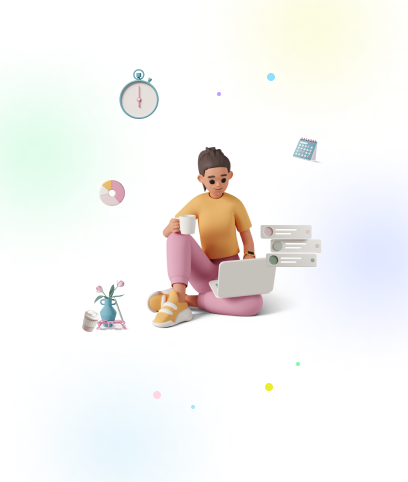
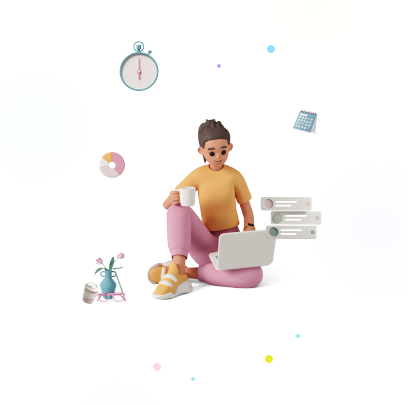
finish login page ui

diff --git a/lib/features/auth/presentation/pages/login_page.dart b/lib/features/auth/presentation/pages/login_page.dart
@@ -1,6 +1,9 @@
+import 'package:flutter/cupertino.dart';
 import 'package:flutter/material.dart';
 import 'package:flutter_bloc/flutter_bloc.dart';
 import 'package:flutter_screenutil/flutter_screenutil.dart';
+import 'package:phone_form_field/phone_form_field.dart';
+import '../../../../config/theme/app_theme.dart';
 import '../cubit/auth_cubit.dart';
 import '../widgets/custom_text_field.dart';
 import 'package:go_router/go_router.dart';
@@ -16,73 +19,123 @@ class LoginPage extends StatelessWidget {
   Widget build(BuildContext context) {
     return Scaffold(
       body: SafeArea(
-        child: Column(
-          children: [
-            Image.asset(
-              "assets/images/art2.png",
-              width: 1.sw,
-              height: 485.h,
-              fit: BoxFit.fitWidth,
-            ),
-            5.verticalSpace,
-            const Padding(
-              padding: EdgeInsets.symmetric(horizontal: 24),
-              child: Column(
+        child: SingleChildScrollView(
+          child: Column(
+            children: [
+              Image.asset(
+                "assets/images/art.png",
+                width: 1.sw,
+                height: 455.h,
+                fit: BoxFit.fitWidth,
+              ),
+              5.verticalSpace,
+               Padding(
+                padding: const EdgeInsets.symmetric(horizontal: 24),
+                child: Column(
 
-                children: [
-                  Align(
-                    alignment: Alignment.centerLeft,
-                    child: Text(
-                      "Login",
-                      style: TextStyle(fontSize: 24, fontWeight: FontWeight.w700),
+                  children: [
+                    const Align(
+                      alignment: Alignment.centerLeft,
+                      child: Text(
+                        "Login",
+                        style: TextStyle(fontSize: 24, fontWeight: FontWeight.w700),
 
+                      ),
                     ),
-                  ),
+                    20.verticalSpace,
+                    PhoneFormField(
+                      initialValue: PhoneNumber.parse('+20'),
+                      decoration: const InputDecoration(
+                        hintText: '123 456-7890',
+                      ),
+                      // or use the controller
+                      // validator: PhoneValidator.compose(
+                      //     [PhoneValidator.required(), PhoneValidator.validMobile()]),
+                      countrySelectorNavigator: const CountrySelectorNavigator.page(),
+                      onChanged: (phoneNumber) => print('changed into $phoneNumber'),
+                      enabled: true,
+                      isCountrySelectionEnabled: true,
+                      isCountryButtonPersistent: true,
+
+                      countryButtonStyle: const CountryButtonStyle(
+                          showDialCode: true,
+                          showIsoCode: false,
+                          showFlag: true,
+                          flagSize: 24
+                      ),),
+                    20.verticalSpace,
+                    TextFormField(
+                      obscureText: true,
+                      decoration:  InputDecoration(
+                        hintText: 'Password...',
+                        suffixIcon: IconButton(onPressed: (){}, icon:  const Icon(Icons.visibility_outlined,size: 24,color: Colors.grey,)),
+                       //suffix: IconButton(onPressed: (){}, icon:  Icon(Icons.visibility_outlined,size: 24,color: Colors.grey,)),
+                      ),
+                    )
+                  ],
+                ),
+              ),
+              20.verticalSpace,
+              ElevatedButton(
+                onPressed: () {
+                  context.push('/login');
+                },
+                style: ButtonStyle(
+                    backgroundColor: WidgetStateProperty.all(AppTheme.primaryColor),
+                    shape: WidgetStateProperty.all(RoundedRectangleBorder(borderRadius: BorderRadius.circular(12))),
+                    fixedSize: WidgetStateProperty.all(Size(331.w, 49.h))
+                ),
+                child: const Text(
+                  'Sign In',
+                  style: TextStyle(
+                      fontSize: 16,
+                      fontWeight: FontWeight.w700,
+                      color: Colors.white),
+                ),),
+              20.verticalSpace,
+               Row(
+                mainAxisAlignment: MainAxisAlignment.center,
+                children: [
+                  const Text("Didn’t have any account? " ,style: TextStyle(fontWeight: FontWeight.w700,fontSize: 14,color: Color(0xFF7F7F7F)), ),
+                  GestureDetector(
+                      onTap: (){},
+                      child: const Text("Sign Up here",style: TextStyle(fontWeight: FontWeight.w700,fontSize: 14,color: AppTheme.primaryColor,decoration: TextDecoration.underline,decorationColor: AppTheme.primaryColor), )),
                 ],
               ),
-            ),
-            CustomTextField(
-              controller: _phoneNumberController,
-              labelText: 'Phone Number',
-            ),
-            CustomTextField(
-              controller: _passwordController,
-              labelText: 'Password',
-              obscureText: true,
-            ),
-            const SizedBox(height: 20),
-            BlocConsumer<AuthCubit, AuthState>(
-              listener: (context, state) {
-                if (state is AuthLoaded) {
-                  context.go('/todos');
-                } else if (state is AuthFailure) {
-                  ScaffoldMessenger.of(context).showSnackBar(
-                    SnackBar(content: Text(state.message)),
-                  );
-                }
-              },
-              builder: (context, state) {
-                if (state is AuthLoading) {
-                  return const CircularProgressIndicator();
-                }
-                return ElevatedButton(
-                  onPressed: () {
-                    context.read<AuthCubit>().login(
-                      _phoneNumberController.text,
-                      _passwordController.text,
-                    );
-                  },
-                  child: const Text('Login'),
-                );
-              },
-            ),
-            TextButton(
-              onPressed: () {
-                context.push('/register');
-              },
-              child: const Text('Register'),
-            ),
-          ],
+
+              // BlocConsumer<AuthCubit, AuthState>(
+              //   listener: (context, state) {
+              //     if (state is AuthLoaded) {
+              //       context.go('/todos');
+              //     } else if (state is AuthFailure) {
+              //       ScaffoldMessenger.of(context).showSnackBar(
+              //         SnackBar(content: Text(state.message)),
+              //       );
+              //     }
+              //   },
+              //   builder: (context, state) {
+              //     if (state is AuthLoading) {
+              //       return const CircularProgressIndicator();
+              //     }
+              //     return ElevatedButton(
+              //       onPressed: () {
+              //         context.read<AuthCubit>().login(
+              //           _phoneNumberController.text,
+              //           _passwordController.text,
+              //         );
+              //       },
+              //       child: const Text('Login'),
+              //     );
+              //   },
+              // ),
+              // TextButton(
+              //   onPressed: () {
+              //     context.push('/register');
+              //   },
+              //   child: const Text('Register'),
+              // ),
+            ],
+          ),
         ),
       ),
     );

diff --git a/lib/features/auth/presentation/pages/welcome_page.dart b/lib/features/auth/presentation/pages/welcome_page.dart
@@ -14,12 +14,12 @@ class WelcomePage extends StatelessWidget {
           children: [
             //10.verticalSpace,
             Image.asset(
-              "assets/images/art2.png",
+              "assets/images/art.png",
               width: 1.sw,
-              height: 485.h,
+              height: 455.h,
               fit: BoxFit.fitWidth,
             ),
-            5.verticalSpace,
+            35.verticalSpace,
             SizedBox(
                 width: 235.w,
                 child: const Text(
@@ -60,7 +60,8 @@ class WelcomePage extends StatelessWidget {
 
 
                   ],
-                ))
+                ),),
+
           ],
         ),
       ),
